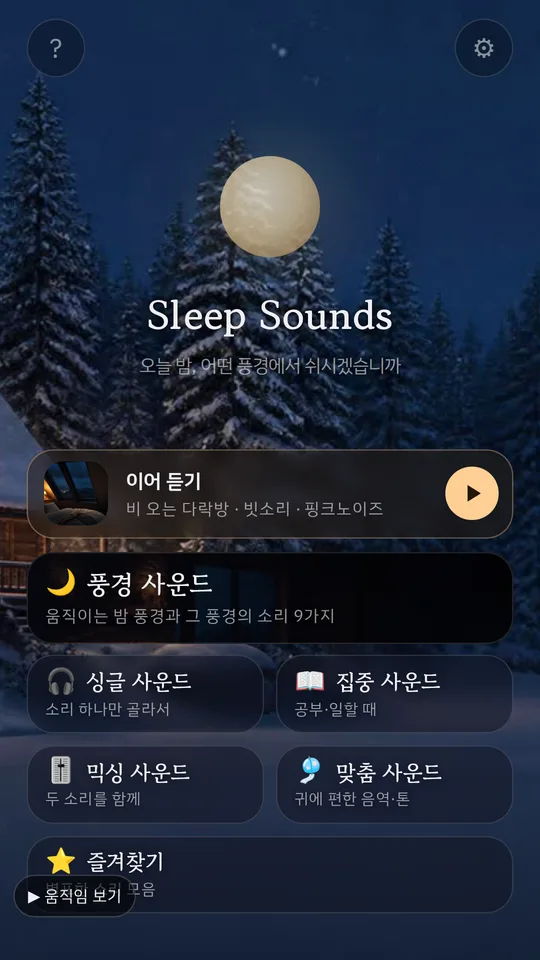
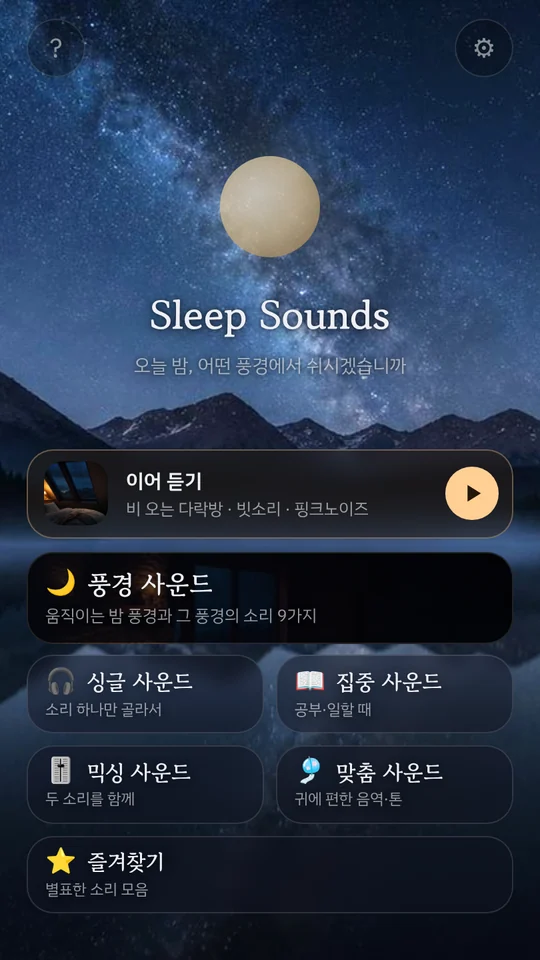
수면 사운드 페이지 출시 후 정리: 'Google Play에서 받기' 강조 버튼(앱 색·재생 아이콘, 맨 위로 올림)+페이지 끝 버튼(utm sleep_bottom), 스크린샷 4장 빌드51 화면으로 교체, 'PRO 테스트 기간 무료' 문구 → 월간·연간·평생 이용권, 함께 재생 버튼·남은 시간 표시 반영
Claude-Session: https://claude.ai/code/session_01RMWb63qGRyLrEGfPGhAqwE

diff --git a/docs/sleep/index.html b/docs/sleep/index.html
@@ -24,26 +24,26 @@
 
 <h1>수면 사운드 · Sleep Sounds</h1>
 <p class="lead">빗소리·파도·시냇물 같은 자연의 소리와 백색·핑크·브라운 노이즈를 수면 타이머와 함께 들을 수 있는 앱입니다. 잠들기 전이나 공부·업무 중 배경음으로 쓰실 수 있습니다.</p>
-<div class="shots">
-<img src="/sleep/img/shot-1-home.webp" alt="홈 화면 — 이어 듣기와 다섯 가지 사운드 메뉴" width="540" height="960" loading="lazy">
-<img src="/sleep/img/shot-2-scene.webp" alt="풍경 사운드 — 비 오는 다락방 재생 화면" width="540" height="960" loading="lazy">
-<img src="/sleep/img/shot-3-mix.webp" alt="믹싱 사운드 — 소리 두 개 고르기" width="540" height="960" loading="lazy">
-<img src="/sleep/img/shot-4-timer.webp" alt="타이머 — 0~8시간, 끝나도 아주 작게 이어 듣기" width="540" height="960" loading="lazy">
-</div>
 <div class="btns">
-<a class="btn" href="https://play.google.com/store/apps/details?id=com.wonchang.sleepnoise&amp;referrer=utm_source%3Dsite%26utm_campaign%3Dsleep_hero">Google Play에서 받기</a>
+<a class="btn play" style="--app:#1A3270" href="https://play.google.com/store/apps/details?id=com.wonchang.sleepnoise&amp;referrer=utm_source%3Dsite%26utm_campaign%3Dsleep_hero"><svg viewBox="0 0 24 24" aria-hidden="true"><path fill="currentColor" d="M7 4.5v15a1 1 0 0 0 1.5.86l12.4-7.5a1 1 0 0 0 0-1.72L8.5 3.64A1 1 0 0 0 7 4.5z"/></svg>Google Play에서 받기</a>
 <a class="btn" href="/sleep/help/">도움말</a>
 <a class="btn" href="/sleep/privacy/">개인정보처리방침</a>
 </div>
+<div class="shots">
+<img src="/sleep/img/shot-1-home.webp" alt="홈 화면 — 이어 듣기와 다섯 가지 사운드 메뉴" width="540" height="960" loading="lazy">
+<img src="/sleep/img/shot-2-scene.webp" alt="풍경 사운드 — 비 오는 다락방 재생 화면, 타이머 남은 시간과 함께 재생 버튼" width="540" height="960" loading="lazy">
+<img src="/sleep/img/shot-3-mix.webp" alt="믹싱 사운드 — 빗소리와 핑크노이즈 음량 따로 조절" width="540" height="960" loading="lazy">
+<img src="/sleep/img/shot-4-timer.webp" alt="타이머 — 30분 설정, 끝나도 아주 작게 이어 듣기" width="540" height="960" loading="lazy">
+</div>
 <h2>이런 기능이 있습니다</h2>
 <ul>
-<li><strong>풍경 사운드</strong> — 비 오는 다락방, 여름밤 바닷가 같은 움직이는 밤 풍경과 그에 어울리는 소리</li>
-<li><strong>싱글·집중 사운드</strong> — 소리 하나만, 또는 공부·일할 때 듣기 좋은 조합</li>
+<li><strong>풍경 사운드</strong> — 비 오는 다락방, 여름밤 바닷가 같은 움직이는 밤 풍경 9가지와 그에 어울리는 소리(일부 PRO)</li>
+<li><strong>싱글·집중 사운드</strong> — 소리 하나만, 또는 공부·일할 때 듣기 좋은 자연의 소리 + 노이즈 5가지 조합</li>
 <li><strong>믹싱 사운드(PRO)</strong> — 소리 두 개의 음량과 음색을 따로 조절</li>
 <li><strong>맞춤 사운드(PRO)</strong> — 낮은·중간·높은 음역 중 귀에 편한 노이즈 고르기</li>
-<li><strong>타이머</strong> — 0~8시간, 끝난 뒤에도 아주 작은 소리로 이어 듣기</li>
-<li><strong>다른 앱과 함께 재생</strong> — 강의·영상 소리 아래에 배경음으로 깔기</li>
-<li><strong>화면을 꺼도 계속</strong> — 다른 앱을 쓰거나 화면을 꺼도 이어서 재생</li>
+<li><strong>타이머</strong> — 0~8시간, 남은 시간 표시, 끝난 뒤에도 아주 작은 소리로 이어 듣기</li>
+<li><strong>다른 앱과 함께 재생</strong> — 재생 화면의 '함께 재생' 버튼 하나로 강의·영상 소리 아래에 배경음을 깔고, 배경음 크기만 따로 조절</li>
+<li><strong>화면을 꺼도 계속</strong> — 다른 앱을 쓰거나 화면을 꺼도 이어서 재생, 알림·잠금 화면에서 멈춤·끄기</li>
 </ul>
 <h2>이런 분께 맞습니다</h2>
 <ul>
@@ -53,12 +53,13 @@
 </ul>
 <h2>알아 두실 것</h2>
 <ul>
-<li>기본 기능은 무료이고, 일부 기능은 PRO입니다. 테스트 기간에는 PRO 기능도 열려 있습니다.</li>
-<li>회원가입이 없고, 개인정보와 사용 기록을 수집하지 않습니다.</li>
+<li>기본 기능은 무료이고, 일부 기능은 PRO입니다. PRO는 월간·연간 구독 또는 한 번 결제하는 평생 이용권으로 이용할 수 있습니다.</li>
+<li>광고와 회원가입이 없고, 개인정보와 사용 기록을 수집하지 않습니다. 결제는 Google Play에서 처리됩니다.</li>
 </ul>
 <p class="note">문의: <a href="mailto:sleep@modubox.app">sleep@modubox.app</a><br>
 본 앱은 의료기기가 아니며, 질병의 진단·치료를 목적으로 하지 않습니다.</p>
 <p class="note" lang="en">Sleep Sounds — nature sounds and white, pink and brown noise with a sleep timer. Not a medical device.</p>
+<div class="btns end"><a class="btn play" style="--app:#1A3270" href="https://play.google.com/store/apps/details?id=com.wonchang.sleepnoise&amp;referrer=utm_source%3Dsite%26utm_campaign%3Dsleep_bottom"><svg viewBox="0 0 24 24" aria-hidden="true"><path fill="currentColor" d="M7 4.5v15a1 1 0 0 0 1.5.86l12.4-7.5a1 1 0 0 0 0-1.72L8.5 3.64A1 1 0 0 0 7 4.5z"/></svg>Google Play에서 받기</a></div>
 
 </div></main>
 <footer><div class="wrap">상호 모두박스랩스 (ModuBox Labs) · 대표 김영균 · 사업자등록번호 163-78-00746 · 통신판매업 신고 제2026-서울서대문-1097호<br>주소 서울특별시 서대문구 신촌로 163 (대현동) · 전화 070-8065-7440 · 이메일 <a href="mailto:support@modubox.app">support@modubox.app</a><br>© 2026 ModuBox Labs</div></footer>

diff --git a/docs/assets/site.css b/docs/assets/site.css
@@ -20,6 +20,9 @@ h1{font-size:28px;line-height:1.3;margin:0 0 10px;letter-spacing:-.02em}
 .app .more{display:inline-block;margin-top:10px;font-size:14px;color:var(--accent)}
 .btns{display:flex;flex-wrap:wrap;gap:10px;margin:22px 0}
 .btn{display:inline-block;padding:10px 16px;border-radius:10px;border:1px solid var(--line);background:var(--card);color:var(--ink);text-decoration:none;font-size:14.5px}
+.btn.play{display:inline-flex;align-items:center;gap:9px;padding:13px 22px;border:0;background:var(--app,#1A3270);color:#fff;font-weight:700;font-size:16px;box-shadow:0 4px 14px rgba(0,0,0,.18)}
+.btn.play svg{width:18px;height:18px;flex:none}.btn.play:hover{filter:brightness(1.12)}
+.btns.end{justify-content:center;margin:34px 0 8px}
 .note{color:var(--sub);font-size:14px}
 footer{border-top:1px solid var(--line);padding:22px 0 40px;color:var(--sub);font-size:12.5px;line-height:1.8}
 footer a{color:var(--sub)}

diff --git a/_src/build.py b/_src/build.py
@@ -54,6 +54,9 @@ h1{font-size:28px;line-height:1.3;margin:0 0 10px;letter-spacing:-.02em}
 .app .more{display:inline-block;margin-top:10px;font-size:14px;color:var(--accent)}
 .btns{display:flex;flex-wrap:wrap;gap:10px;margin:22px 0}
 .btn{display:inline-block;padding:10px 16px;border-radius:10px;border:1px solid var(--line);background:var(--card);color:var(--ink);text-decoration:none;font-size:14.5px}
+.btn.play{display:inline-flex;align-items:center;gap:9px;padding:13px 22px;border:0;background:var(--app,#1A3270);color:#fff;font-weight:700;font-size:16px;box-shadow:0 4px 14px rgba(0,0,0,.18)}
+.btn.play svg{width:18px;height:18px;flex:none}.btn.play:hover{filter:brightness(1.12)}
+.btns.end{justify-content:center;margin:34px 0 8px}
 .note{color:var(--sub);font-size:14px}
 footer{border-top:1px solid var(--line);padding:22px 0 40px;color:var(--sub);font-size:12.5px;line-height:1.8}
 footer a{color:var(--sub)}
@@ -148,9 +151,14 @@ def copytree(src, dst):
             os.makedirs(os.path.dirname(t), exist_ok=True)
             shutil.copy2(s, t)
 
-def play_url(a):
+def play_url(a, pos='hero'):
     return (f"https://play.google.com/store/apps/details?id={ns(a).package}"
-            f"&referrer=utm_source%3Dsite%26utm_campaign%3D{ns(a).slug}_hero")
+            f"&referrer=utm_source%3Dsite%26utm_campaign%3D{ns(a).slug}_{pos}")
+
+PLAY_SVG = '<svg viewBox="0 0 24 24" aria-hidden="true"><path fill="currentColor" d="M7 4.5v15a1 1 0 0 0 1.5.86l12.4-7.5a1 1 0 0 0 0-1.72L8.5 3.64A1 1 0 0 0 7 4.5z"/></svg>'
+def play_btn(a, pos='hero'):
+    return (f'<a class="btn play" style="--app:{html.escape(a.get("color", "#1A3270"))}" '
+            f'href="{html.escape(play_url(a, pos))}">{PLAY_SVG}Google Play에서 받기</a>')
 
 # ---------- 앱별 처리방침(옛 형식 그대로 — 글자 바꾸지 않음) ----------
 def privacy_sleep_legacy(a, Y, M, D):
@@ -262,7 +270,7 @@ for a in APPS:
     has_help = has_content(help_txt) or has_content(faq_txt)
     btns = []
     if a['status'] == 'live':
-        btns.append(f'<a class="btn" href="{html.escape(play_url(a))}">Google Play에서 받기</a>')
+        btns.append(play_btn(a))
     else:
         btns.append('<span class="btn" aria-disabled="true">곧 출시합니다</span>')
     if has_help:
@@ -276,6 +284,8 @@ for a in APPS:
     if md(before): parts.append(md(before))
     parts.append(btn_html)
     if md(after): parts.append(md(after))
+    if a['status'] == 'live':
+        parts.append('<div class="btns end">' + play_btn(a, 'bottom') + '</div>')
     w(f'{s}/index.html', page(meta.get('title', a['name_ko']), '\n' + '\n'.join(parts) + '\n',
                                meta.get('description', ''), canonical=f'{BASE}/{s}/',
                                og=(meta.get('og_title', meta.get('title', a['name_ko'])), f'{BASE}/{s}/img/og.png')

diff --git a/_src/sleep/page.md b/_src/sleep/page.md
@@ -6,24 +6,24 @@ h1: 수면 사운드 · Sleep Sounds
 lead: 빗소리·파도·시냇물 같은 자연의 소리와 백색·핑크·브라운 노이즈를 수면 타이머와 함께 들을 수 있는 앱입니다. 잠들기 전이나 공부·업무 중 배경음으로 쓰실 수 있습니다.
 card: 빗소리·파도·시냇물과 백색·핑크·브라운 노이즈를 수면 타이머와 함께 들을 수 있는 수면·집중 사운드 앱입니다.
 ---
+<!-- buttons -->
+
 <div class="shots">
 <img src="/sleep/img/shot-1-home.webp" alt="홈 화면 — 이어 듣기와 다섯 가지 사운드 메뉴" width="540" height="960" loading="lazy">
-<img src="/sleep/img/shot-2-scene.webp" alt="풍경 사운드 — 비 오는 다락방 재생 화면" width="540" height="960" loading="lazy">
-<img src="/sleep/img/shot-3-mix.webp" alt="믹싱 사운드 — 소리 두 개 고르기" width="540" height="960" loading="lazy">
-<img src="/sleep/img/shot-4-timer.webp" alt="타이머 — 0~8시간, 끝나도 아주 작게 이어 듣기" width="540" height="960" loading="lazy">
+<img src="/sleep/img/shot-2-scene.webp" alt="풍경 사운드 — 비 오는 다락방 재생 화면, 타이머 남은 시간과 함께 재생 버튼" width="540" height="960" loading="lazy">
+<img src="/sleep/img/shot-3-mix.webp" alt="믹싱 사운드 — 빗소리와 핑크노이즈 음량 따로 조절" width="540" height="960" loading="lazy">
+<img src="/sleep/img/shot-4-timer.webp" alt="타이머 — 30분 설정, 끝나도 아주 작게 이어 듣기" width="540" height="960" loading="lazy">
 </div>
-
-<!-- buttons -->
 
 ## 이런 기능이 있습니다
 
-- **풍경 사운드** — 비 오는 다락방, 여름밤 바닷가 같은 움직이는 밤 풍경과 그에 어울리는 소리
-- **싱글·집중 사운드** — 소리 하나만, 또는 공부·일할 때 듣기 좋은 조합
+- **풍경 사운드** — 비 오는 다락방, 여름밤 바닷가 같은 움직이는 밤 풍경 9가지와 그에 어울리는 소리(일부 PRO)
+- **싱글·집중 사운드** — 소리 하나만, 또는 공부·일할 때 듣기 좋은 자연의 소리 + 노이즈 5가지 조합
 - **믹싱 사운드(PRO)** — 소리 두 개의 음량과 음색을 따로 조절
 - **맞춤 사운드(PRO)** — 낮은·중간·높은 음역 중 귀에 편한 노이즈 고르기
-- **타이머** — 0~8시간, 끝난 뒤에도 아주 작은 소리로 이어 듣기
-- **다른 앱과 함께 재생** — 강의·영상 소리 아래에 배경음으로 깔기
-- **화면을 꺼도 계속** — 다른 앱을 쓰거나 화면을 꺼도 이어서 재생
+- **타이머** — 0~8시간, 남은 시간 표시, 끝난 뒤에도 아주 작은 소리로 이어 듣기
+- **다른 앱과 함께 재생** — 재생 화면의 '함께 재생' 버튼 하나로 강의·영상 소리 아래에 배경음을 깔고, 배경음 크기만 따로 조절
+- **화면을 꺼도 계속** — 다른 앱을 쓰거나 화면을 꺼도 이어서 재생, 알림·잠금 화면에서 멈춤·끄기
 
 ## 이런 분께 맞습니다
 
@@ -33,8 +33,8 @@ card: 빗소리·파도·시냇물과 백색·핑크·브라운 노이즈를 수
 
 ## 알아 두실 것
 
-- 기본 기능은 무료이고, 일부 기능은 PRO입니다. 테스트 기간에는 PRO 기능도 열려 있습니다.
-- 회원가입이 없고, 개인정보와 사용 기록을 수집하지 않습니다.
+- 기본 기능은 무료이고, 일부 기능은 PRO입니다. PRO는 월간·연간 구독 또는 한 번 결제하는 평생 이용권으로 이용할 수 있습니다.
+- 광고와 회원가입이 없고, 개인정보와 사용 기록을 수집하지 않습니다. 결제는 Google Play에서 처리됩니다.
 
 <p class="note">문의: <a href="mailto:sleep@modubox.app">sleep@modubox.app</a><br>
 본 앱은 의료기기가 아니며, 질병의 진단·치료를 목적으로 하지 않습니다.</p>
